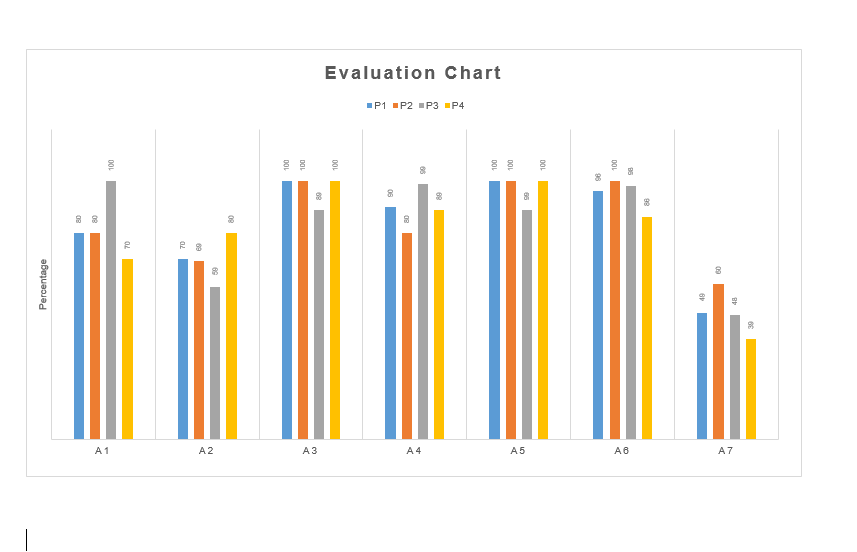
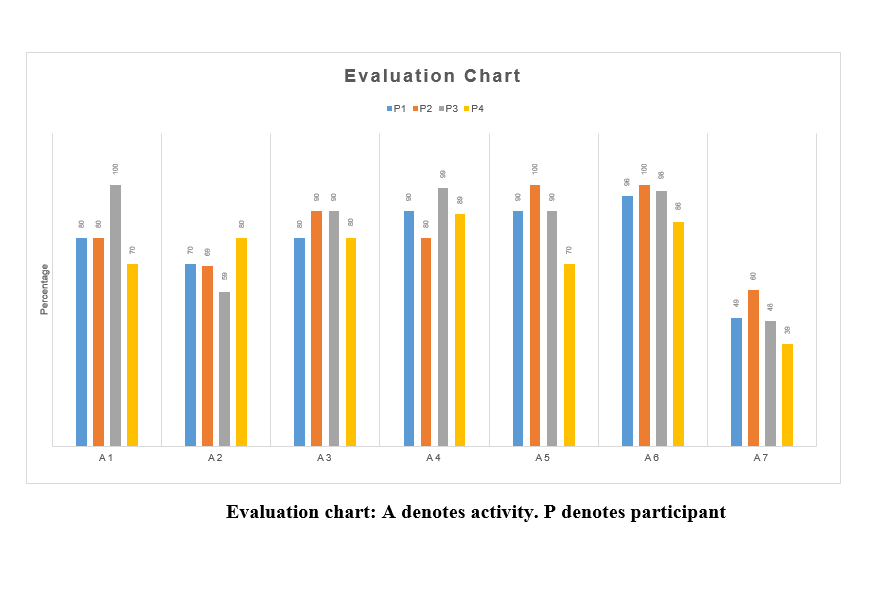
Evaluation
Evaluation

diff --git a/report/chapter/evaluation.tex b/report/chapter/evaluation.tex
@@ -1,48 +1,63 @@
  
-To evaluate interactive smart shelf, we tested it more than once time in real world scenarios. We find some strengths and weakness after the evaluation of our project. Moreover we done seven activities during evaluation that are listed in a below table.
+To evaluate interactive smart shelf, we tested it more than one time in real world scenarios. We found some strengths and weakness after the evaluation of our project. Moreover we did seven activities during evaluation that are listed the table below.
 
 \subsection{Strength} 
 \begin{description}
-  \item[$\bullet$] The design of drawers are reliable,long lasting and have Multiple User Interface.
-   \item[$\bullet$] Color of LED'S follows cultural analogy, i.e. Red (no item), Blue (have an item) and Yellow (<=half amount) in each drawer.
-   \item[$\bullet$] If there isn't any item or have less than half amount of an items in drawers, send notification email to administrator.
+  \item[$\bullet$] The design of drawers are reliable, long lasting and system has a Multiple User Interface for multiple users.
+   \item[$\bullet$] In service mode, color of LED's follows cultural analogy, i.e. Red (no item), Blue (have an item) and Yellow (<=half amount) in each drawer.
+   \item[$\bullet$] If there isn't any item in drawers, system send notification email to operator.
    \item[$\bullet$] Web application smoothly start service mode that depicts the current state of smart shelf.
    \item[$\bullet$] More than one user can search items simultaneously.
-   \item[$\bullet$] Using QR code user can get detail information of items i.e. capacity of resistors etc.
+   \item[$\bullet$] Using QR-Code user can get detail information of items i.e. capacity of resistors etc.
    \end{description}
 \subsection{weakness}
 \begin{itemize}
-  \item Keep small circuit inside each drawer is not good idea.It became messy with items even LED'S inside drawer is not clearly visible for visualization.
-  \item Most important keep a plastic plate on the top of load sensor to fix load sensor inside drawer does not give proper measurement.
-  \item  Power supply is also an issue, when multiple drawers connect with micro controller.
-  \item Place a QR code outside of each small drawer is also a challenge.
+  \item LED's inside drawer is not clearly visible for visualization.
+        \subsection{solution}
+         Use huge diffused LED's (10mm diameter). These are really bright so these can be seen in daytime. These have 465-470nm wavelength, 3.0-3.4V forward voltage and require 20mA current. Typical brightness is 1000mcd instead of using 5mm.
+  \item Load Cell is fix with plastic plate inside drawer. Sometimes Load Cell isn't measure correct weight owing to around space between plate and drawer.
+  		 \subsection{solution}
+  		 Inside drawer there should not any space between the edges of plate and drawer.
+  \item  Power supply is also an issue, sometimes some LED's isn't blink or ON just because of insufficient power supply.
+  	   \subsection{solution}
+  	    We can power up Micro Controller using an AC to DC adapter plugged into the barrel connector.The barrel connector can be supplied 7-12V or can use battery greater than 5V. 
+  \item Place a QR Code outside of each small drawer is also a problem.
+  	   \subsection{solution}
+  	    NFC \footnote{Abbr. Near Field Communication} Tags are one of the new tool that could be replace QR Code. NFC Tags are small in size so can easily be placed outside of each drawer. Most important NFC Tags are more secure, flexible, and easier to configure than QR Codes. It is also easy to make changes and edit existing NFC Tags rather than QR Codes. One last thing unlike QR Code, NFC Tags do not require an extra application. We can also use SnapTag.
+ %
+\begin{figure}
+	\includegraphics[width=0.9\columnwidth]{figures/NFCTag}
+	\caption{NFC Tag}~\label{fig:NFC}
+\end{figure}
+%
+
 \end{itemize}
 \subsection{Best Scenarios} 
-  The project works best when search any item in drawer and scan QR code to get further detail through web app. Although proper communication is established between web app and micro controller via MQTT protocol. 
-\subsection{Failed Scenarios}
- Sometimes when service mode start/stop, LED'S are not properly ON/OFF because of inefficient power supply. Power supply for Arduino is crucial as it stop works at any random point of time in between of service mode which is not good. Further More load sensor does not show accurate weight of items owing to resistance in between plastic plate and drawer.
-A broken of MQTT connection immediately would lead to loss of communication between Micro controller and Web app.
+  The project works best when search any item in drawer and scan QR Code to get further detail via Web App. Moreover proper communication is establish between Web App and Micro Controller via MQTT protocol. 
 \subsection{User Testing} 
-We tried web app Smart Shelf with different users and observe while they were doing these activities. These activities are listed in a given table.
+We tried Web App Smart Shelf with different users and observed when they were doing these activities. These activities are listed in table.
 %
 \begin{figure}
-	\includegraphics[width=1.1\columnwidth]{figures/table}
-	\caption{Table}~\label{fig:table}
+	\includegraphics[width=1.1\columnwidth]{figures/Table}
+	\caption{}~\label{fig:table}
 \end{figure}
 %
 \\
-We tested all these activities with different 4 participants and get feedback about this web app. The participants were from different age groups range from 22 to 30 years old people some was employee and some were students. For each participant performed each activity 10 times as mention in table. Then we evaluated the number of successful observations, false results and no response. We calculated the percentage of successful observations for each activity and each participant perform these activities and reasons of fault results.
+We tested all these activities with different 4 participants and got feedback. We recorded all data of four different participants in this section. The participants were from different age groups range from 20 to 29 years old people some were employee and some were students at the University of Saarland. For each participant performed each activity 10 times as mention in table. Then we evaluated the number of successful observations, false results and no response. We would discuss the results corresponding to each activity and the percentage of successful observations when our system was perfectly fine and when a false detection happened and what might be the possible reasons of false results.
 
-For activity 1 and 5, we found our system is working properly almost 88 percent cases was matched with accepted results according to our observation.
-While for activity 2, the system was relatively less accurate as compared to the first activity. more than once time the system does not show perfect. In 70 percent cases the system measured the weight of items correctly but 22 percent the system failed to measure quantity of items. because to calculate quantity was depend on accurate weight measurement but sometimes load sensor interpret wrong weight. That's why with 3rd participant the success rate was 81 percent as compared to the 2nd one. 
-Meanwhile activity 6 had high percentage of correct cases with 99 percent among the other all activities.
-As we went further and test activity 4 and 5, achieved success ratio over 96 percent, 4 percent cases was failed because of incorrect operations performed by novel users.
-In Contrast the last activity, 55 percent cases was failed because of the system was behave unintentionally and inefficient power supply to micro controller was also a critical issue. So the result was not fine among all of above mention activities as 72 percent cases were failed because of inefficient power supply. Participants give bad feedback when they stopped service mode the LED'S was still blinked and system became unresponsive. 
-At the end we conclude overall success rate of our smart shelf web app in the light of these 7 activities was 90 percent was perfect as shown in fig (a). As this figure represent the overall evaluation report in form of chart. But 10 percent was unsatisfied owing to some reasons that is mention above.
+For activity 1 and 5, we found our system is working properly in almost 88 percent cases because participants were intentionally performing.
+While for activity 2, the system was relatively less accurate as compared to the first activity. More than one time the system did not measured correct weight. In 70 percent cases the system measured the weight of items correctly but 21 percent the system failed to measure quantity of items. This activity was dependent upon weight measurement. Sometimes load sensor interpret wrong weight. For example with 3rd participant we achieved the success rate  81 percent as compared to the 2nd one. 
+Meanwhile activity 6 had high percentage of successful cases with 99 percent among the other all activities.
+While performing activity 3, the success ratio was 88 percent that was almost similar with activity 5, 86 percent success rate.
+As we went further and test activity 4, achieved success ratio over 96 percent, 4 percent cases was failed because of incorrect operations performed by novice users.
+
+In Contrast, the result of activity 7 was worst among all of above mentioned activities as 55 percent cases was failed because of inefficient power supply. Participants gave bad feedback when they stopped service mode the LED's were still blinking and system became unresponsive. Sometimes some LED's were ON when service mode was started. 
+At the end we conclude overall success rate of our Interactive Smart Shelf Web App in the light of these 7 activities was 90 percent. We found more than 85 percent of cases our system was working perfectly fine as shown in fig (5). 
 %
 \begin{figure}
 	\includegraphics[width=1.1\columnwidth]{figures/Chart}
-	\caption{Chart}~\label{fig:Chart}
+	\caption{}~\label{fig:Chart}
 \end{figure}
 %
 
+This figure represent the overall evaluation report in form of bar chart. But 15 percent was unsatisfied result owing to some reasons that is mention above.
